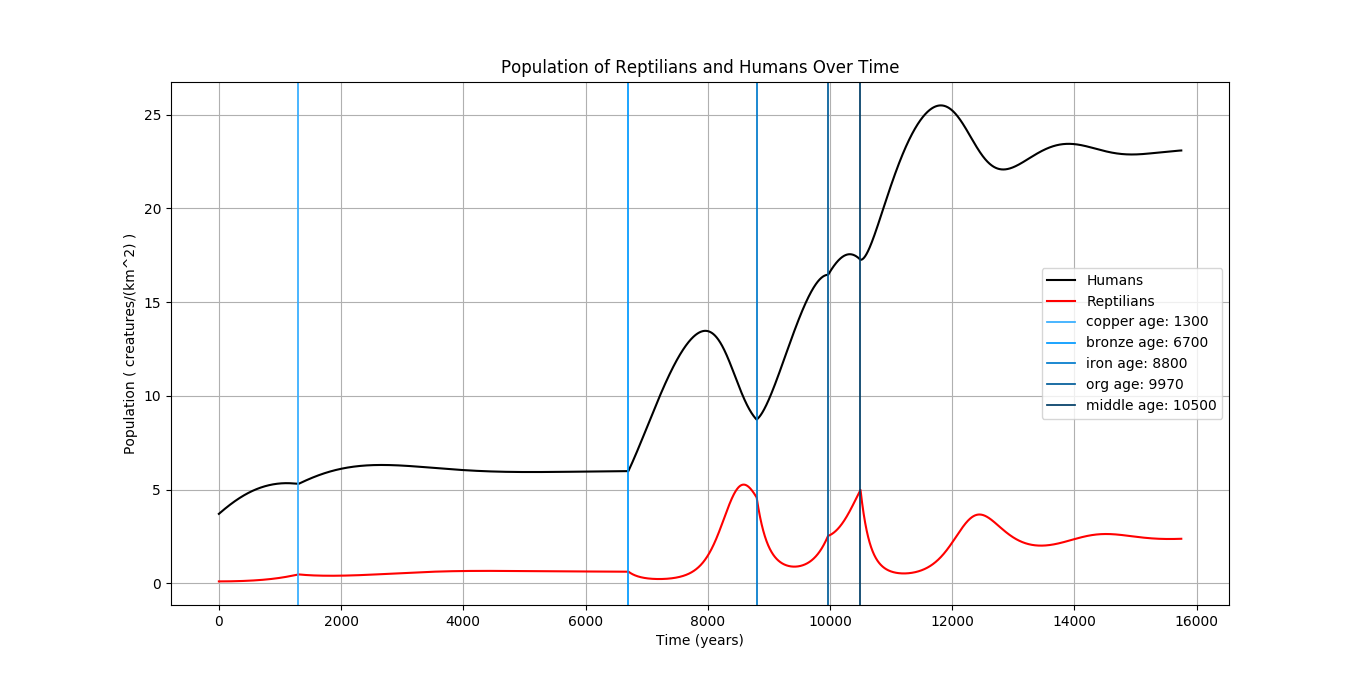
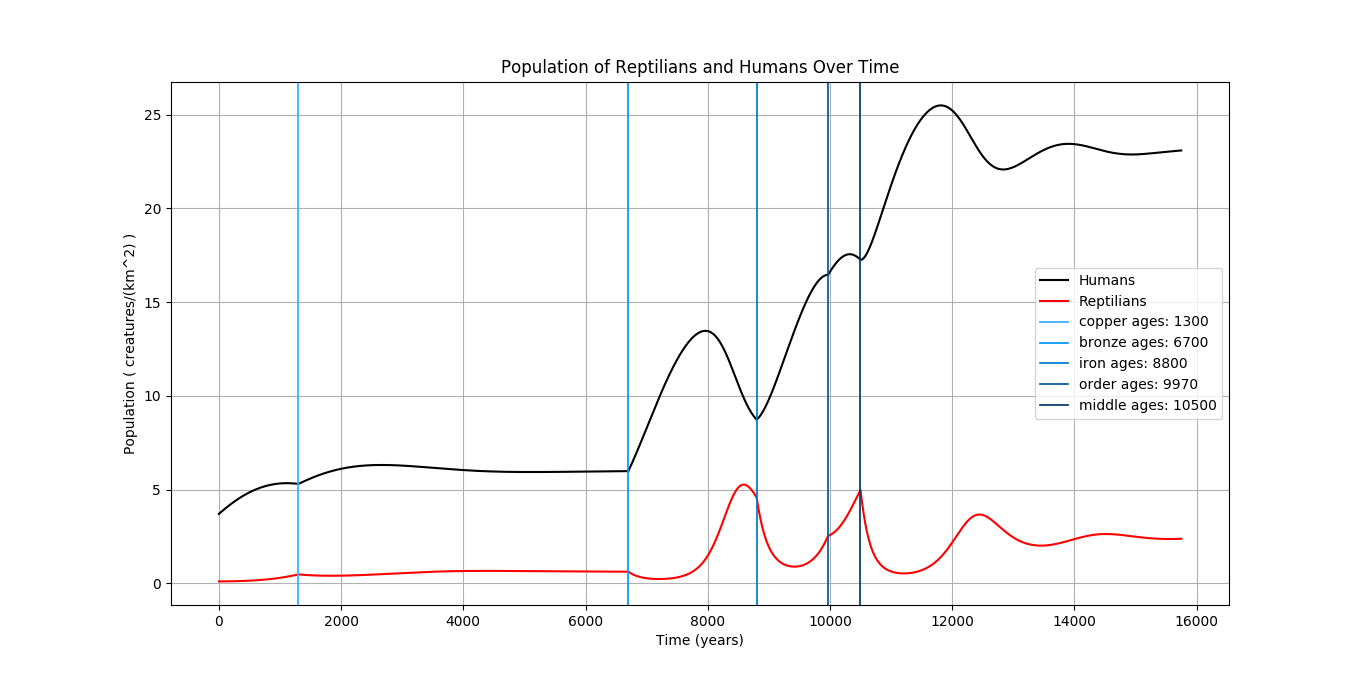
Better Label

Changed region(s): [[0.7687, 0.4015, 0.8917, 0.6176]]

diff --git a/HumRepMod.py b/HumRepMod.py
@@ -184,15 +184,15 @@ p.plot(t, humans, 'k-', label='Humans')
 p.plot(t, reptilians, 'r-', label='Reptilians')
 
 s = str(copper_t - stone_t)
-p.axvline(copper_t - stone_t, color='#33adff', lw=line_width, label='copper age: '+s)
+p.axvline(copper_t - stone_t, color='#33adff', lw=line_width, label='copper ages: '+s)
 s = str(bronze_t - stone_t)
-p.axvline(bronze_t - stone_t, color='#0099ff', lw=line_width, label='bronze age: '+s)
+p.axvline(bronze_t - stone_t, color='#0099ff', lw=line_width, label='bronze ages: '+s)
 s = str(iron_t - stone_t)
-p.axvline(iron_t - stone_t, color='#007acc', lw=line_width, label='iron age: '+s)
+p.axvline(iron_t - stone_t, color='#007acc', lw=line_width, label='iron ages: '+s)
 s = str(org_t - stone_t)
-p.axvline(org_t - stone_t, color='#005c99', lw=line_width, label='org age: '+s)
+p.axvline(org_t - stone_t, color='#005c99', lw=line_width, label='order ages: '+s)
 s = str(medieval_t - stone_t)
-p.axvline(medieval_t - stone_t, color='#003d66', lw=line_width, label='middle age: '+s)
+p.axvline(medieval_t - stone_t, color='#003d66', lw=line_width, label='middle ages: '+s)
 
 p.grid()
 p.legend(loc='best')
